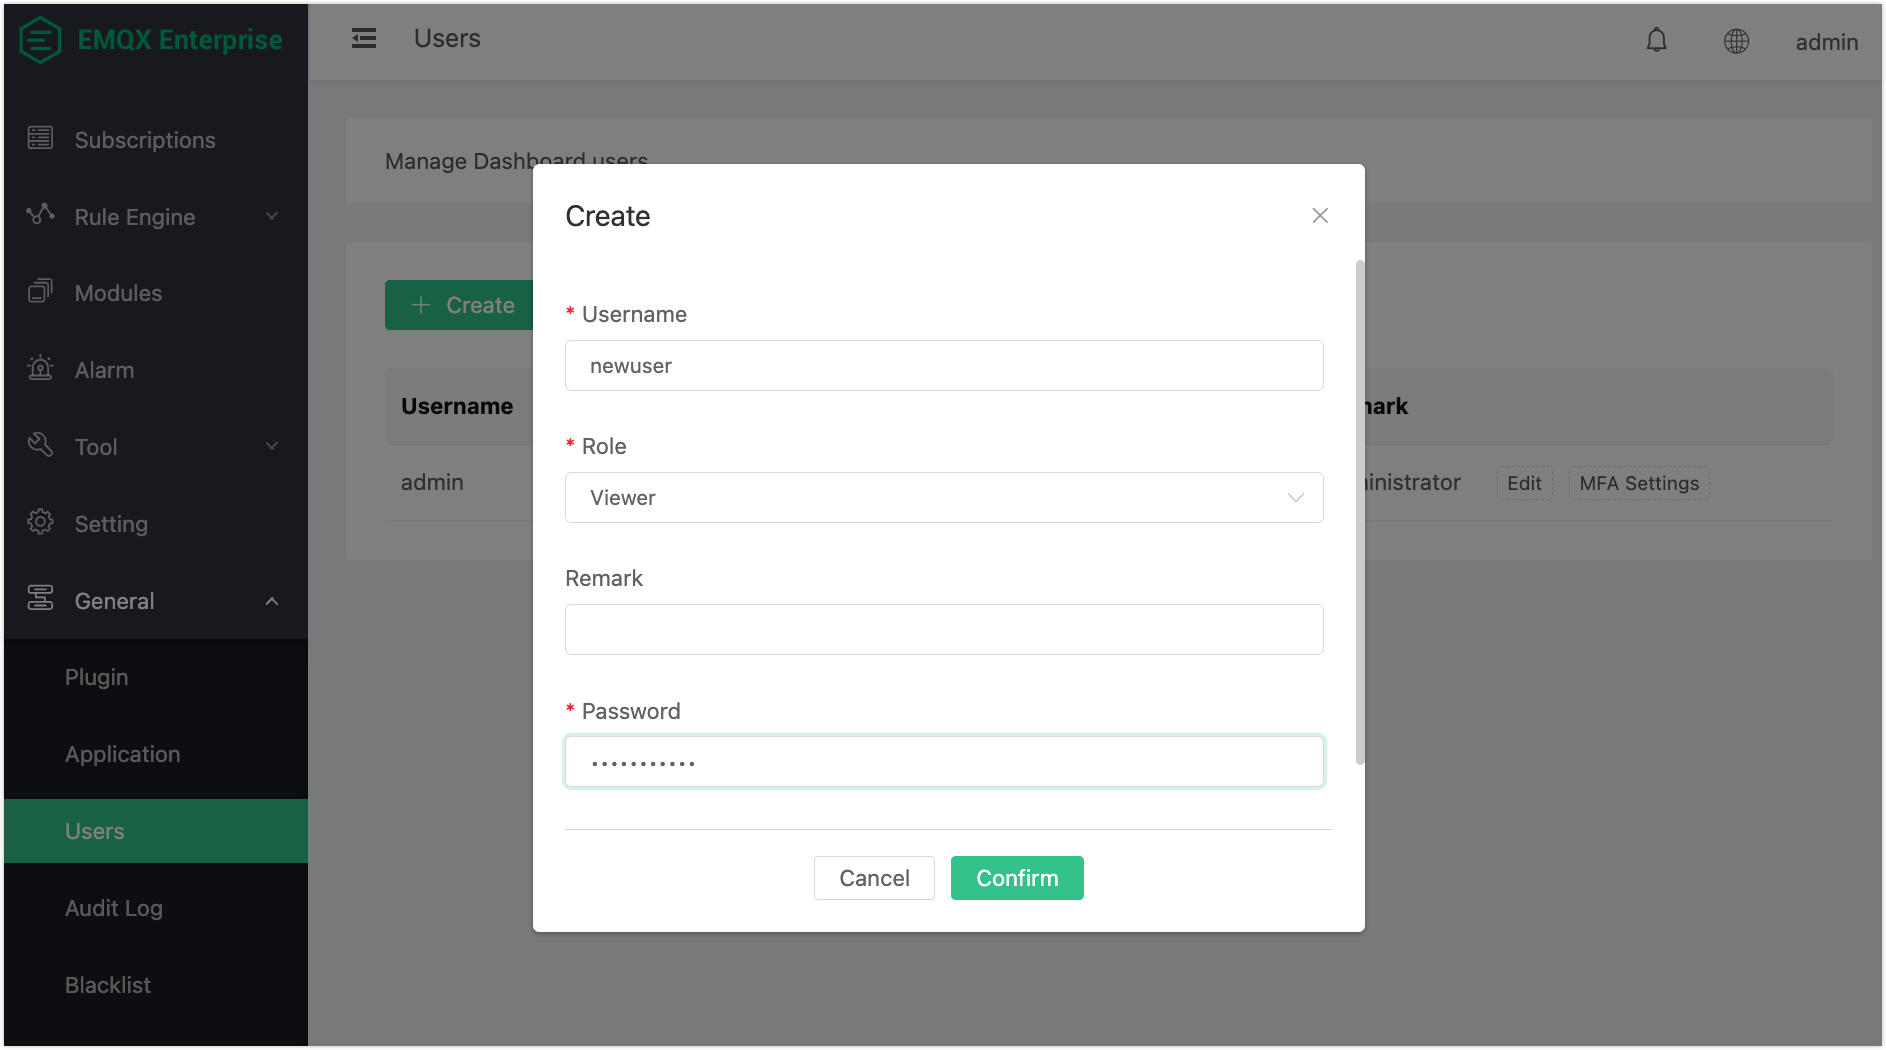
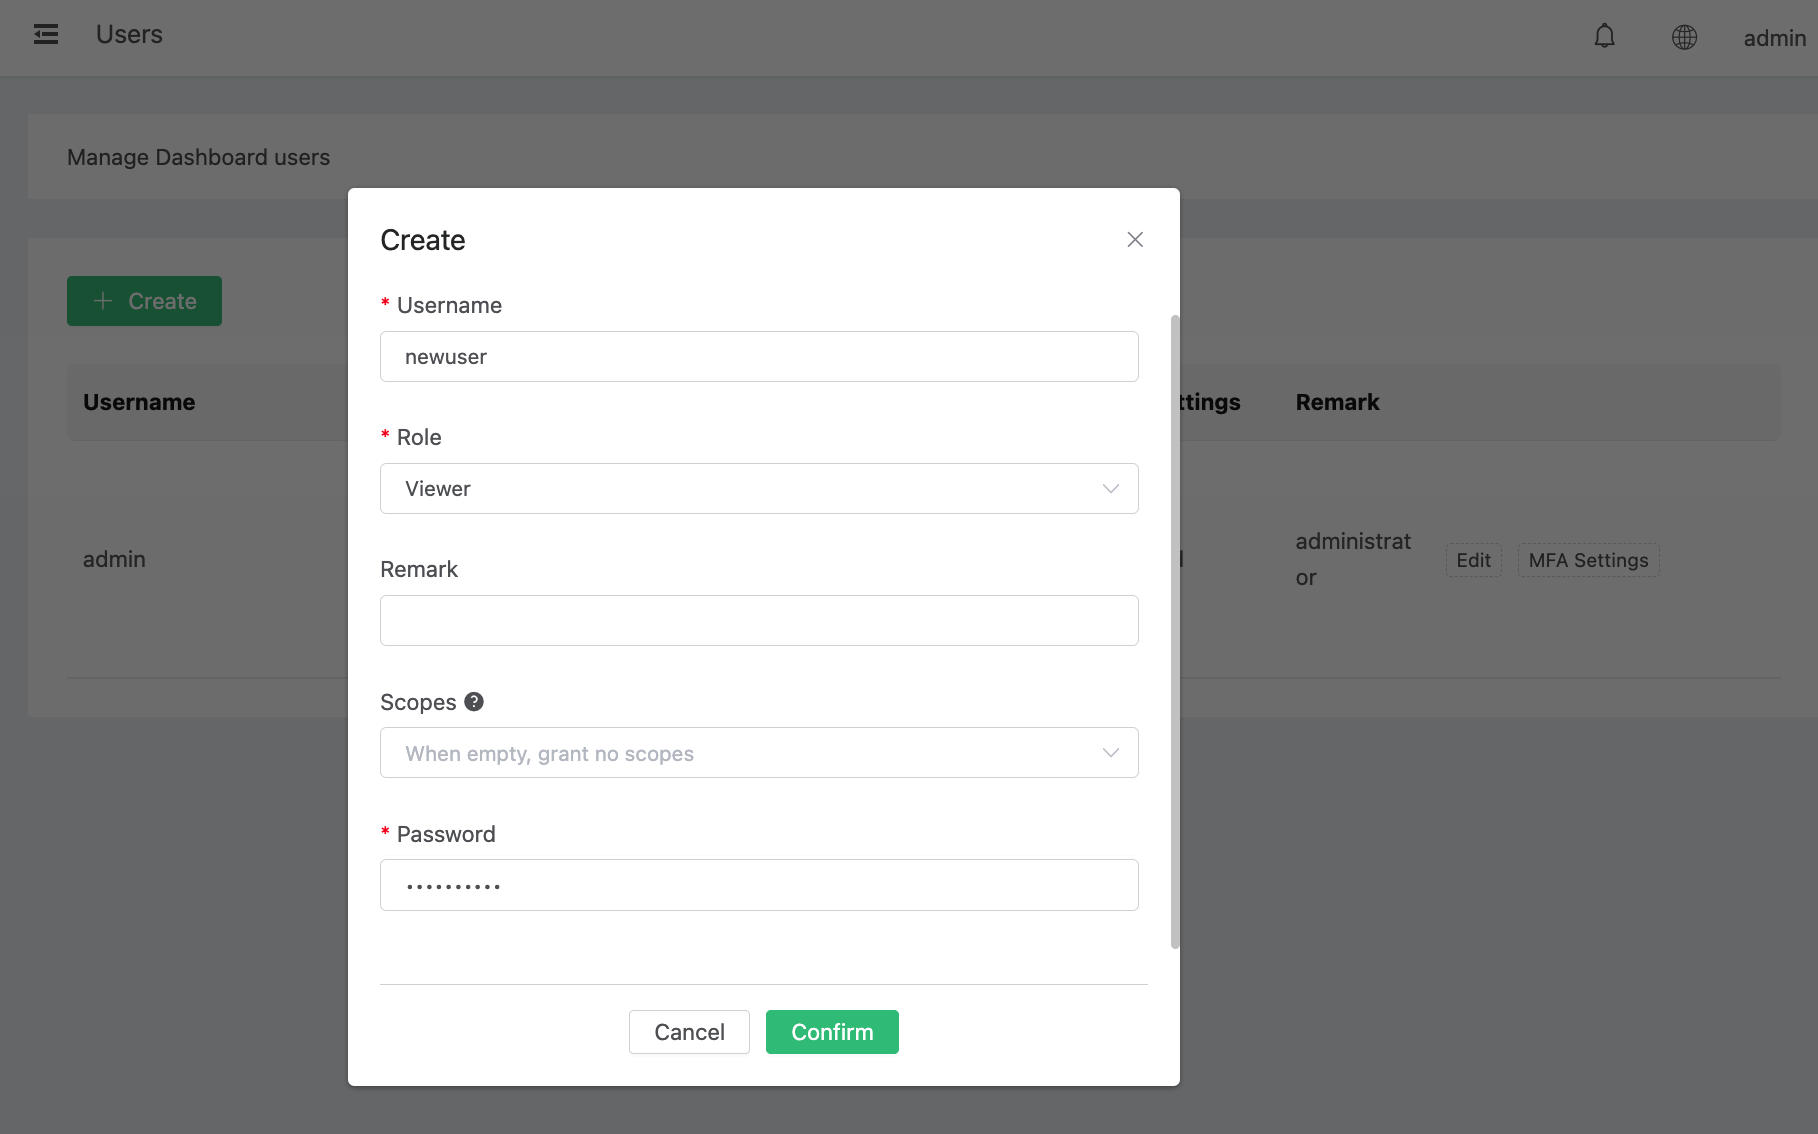
Update contents according to implementation

diff --git a/zh_CN/getting-started/dashboard-users.md b/zh_CN/getting-started/dashboard-users.md
@@ -8,32 +8,32 @@ EMQX Dashboard 内置两种角色：
 
 | 角色 | 说明 |
 |------|------|
-| `administrator` | 拥有所有 Dashboard 功能和 REST API 的完整访问权限。可管理用户、模块、规则、客户端及集群的所有配置。 |
-| `viewer` | 只读权限。可查看监控数据、客户端列表、订阅信息和统计数据，但无法修改任何配置。 |
+| 管理员 | 拥有所有 Dashboard 功能和 REST API 的完整访问权限。可管理用户、模块、规则、客户端及集群的所有配置。 |
+| 查看者 | 只读权限。可查看监控数据、客户端列表、订阅信息和统计数据，但无法修改任何配置。 |
 
 :::tip
-默认账户 `admin` 拥有 `administrator` 角色，且无法被删除。在生产环境部署前，请务必修改其密码。
+默认账户 `admin` 拥有管理员角色，且无法被删除。在生产环境部署前，请务必修改其密码。
 :::
 
 ## 用户管理
 
-本节介绍如何创建、查看、更新和删除 Dashboard 用户，以及如何修改用户密码。所有操作均需要 `administrator` 角色。
+本节介绍如何创建、查看、更新和删除 Dashboard 用户，以及如何修改用户密码。所有操作均需要管理员角色。
 
 ### 创建用户
 
-1. 在左侧导航菜单中点击**用户**。
+1. 在左侧导航菜单中点击**通用** -> **用户**。
 
-2. 点击**添加用户**。
+2. 点击**创建**。
 
-3. 填写用户名、密码、角色及可选描述。
+3. 填写用户名、角色、可选备注、可选作用域以及密码。
 
    | 字段 | 说明 |
    |------|------|
    | 用户名 | 允许使用字母、数字、下划线和连字符。 |
+   | 角色 | 管理员或查看者，默认为查看者。 |
+   | 备注 | 用户的可选备注或标签。 |
+   | 作用域 | 用于限制用户访问权限的可选权限类别。留空时，用户使用角色默认值。详见[基于权限类别的精细权限控制](#基于权限类别的精细权限控制)。 |
    | 密码 | 长度为 8-64 个字符，至少包含以下两种字符类型：字母、数字、特殊字符。仅支持 ASCII 字符。 |
-   | 角色 | `administrator` 或 `viewer`，默认为 `viewer`。 |
-   | 描述 | 用户的可选描述信息。 |
-   | 启用 MFA | 设置后，该用户在首次登录时将被要求配置 MFA。详见 [Dashboard 多因素认证](./dashboard-mfa.md)。 |
 
 4. 点击**确认**。
 
@@ -47,7 +47,7 @@ EMQX Dashboard 内置两种角色：
 
 1. 在左侧导航菜单中点击**用户**。
 2. 在用户列表中点击目标用户的**编辑**按钮。
-3. 修改角色或描述信息后点击**确认**。
+3. 修改角色、备注或作用域后点击**确认**。
 
 此操作不支持修改用户名或密码。如需修改密码，见[修改密码](#修改密码)。
 
@@ -84,56 +84,48 @@ EMQX Dashboard 内置两种角色：
 
 ### 权限类别
 
-EMQX 定义了 9 个权限类别：
+EMQX 定义了 9 个权限类别。前 6 个类别同时适用于 API Key 与 Dashboard 用户；后 3 个类别仅适用于 Dashboard 用户，不可分配给 API Key。
 
-| 类别 | 适用对象 | 说明 |
-|------|---------|------|
-| `banned` | API Key + Dashboard 用户 | 黑名单管理 |
-| `rule_engine` | API Key + Dashboard 用户 | 规则引擎与动作 |
-| `resources` | API Key + Dashboard 用户 | 连接器与桥接 |
-| `plugins` | API Key + Dashboard 用户 | 插件管理 |
-| `modules` | API Key + Dashboard 用户 | 模块配置 |
-| `others` | API Key + Dashboard 用户 | 其他杂项端点 |
-| `user_management` | 仅 Dashboard 用户 | 管理其他 Dashboard 账号 |
-| `mfa_management` | 仅 Dashboard 用户 | 管理其他用户的 MFA |
-| `app_management` | 仅 Dashboard 用户 | 管理 API Key |
-
-前 6 类为原有的业务类别，同时适用于 API Key 与 Dashboard 用户。后 3 类为 Dashboard 用户专属，不可分配给 API Key。
+| 类别 | 说明 |
+|------|------|
+| `banned` | 黑名单管理 |
+| `rule_engine` | 规则引擎与动作 |
+| `resources` | 连接器与桥接 |
+| `plugins` | 插件管理 |
+| `modules` | 模块配置 |
+| `others` | 其他杂项端点 |
+| `user_management` | 管理其他 Dashboard 账号 |
+| `mfa_management` | 管理 MFA。管理员可管理其他用户的 MFA；查看者仅可在强制 MFA 锁定时豁免自己的账号。 |
+| `app_management` | 管理 API Key |
 
 ### 角色与权限类别兼容性
 
 | 角色 | 可分配的权限类别 | 角色默认值（未设置权限类别时） |
 |------|--------------|---------------------------|
-| `administrator` | 全部 9 个类别 | 保持升级前行为：可访问所有端点 |
-| `viewer` | 4 个通用类别 + 3 个 Dashboard 类别。`user_management` 和 `app_management` **不允许**分配给查看者。 | 4 个通用类别 + `mfa_management`。只读（GET）端点不受权限类别限制，因为 GET 请求在类别层之上被短路。 |
+| 管理员 | 全部 9 个类别 | 保持升级前行为：可访问所有端点 |
+| 查看者 | 6 个通用类别和 `mfa_management`。`user_management` 和 `app_management` **不允许**分配给查看者。 | 6 个通用类别：`banned`、`rule_engine`、`resources`、`plugins`、`modules`、`others`。 |
 
-用户修改自己的密码、管理自己的 MFA 以及登出操作始终允许，与权限类别设置无关。
+如果为管理员显式设置了 scopes，其读写操作都会被限制在所列 scope 内。查看者无论如何设置 scopes 都保持只读。对于查看者，GET 请求同样会检查 scope，对非自身资源的非 GET 请求会被拒绝。查看者不能下载备份归档（`/api/v4/data/file/*`）；查看导出列表仍然可用。用户修改自己的密码、管理自己的 MFA 以及登出等自助操作始终允许，与 scopes 设置无关。
 
 ### 为用户设置权限类别
 
-在创建或更新用户时，管理员可以设置 `scopes` 字段以限制该用户的权限范围：
+在创建或更新 Dashboard 用户时，管理员可以选择一个或多个**作用域（Scopes）**来限制该用户的权限范围。在 API 和备份数据中，这些值存储为用户 `tags` 字段中的 `scopes` 数组：
 
 - **不设置**（使用角色默认值）：用户保持升级前基于角色的行为。
-- **空数组 `[]`**：用户被拒绝访问所有需要 scope 的端点（自服务路径仍可用）。
-- **非空数组**：用户只能访问属于所列类别的端点。
+- **空数组 `[]`**：用户被拒绝访问所有需要 scope 的端点，包括 GET 请求（自助操作仍可用）。
+- **非空数组**：用户只能访问属于所列类别的端点。对于查看者，角色本身的只读限制仍然适用。
+
+如果所选 scope 与用户角色不兼容，操作将返回错误。例如，查看者无法被分配 `user_management` 或 `app_management`。
 
 :::tip 示例
-创建一个只能查看监控数据和自助管理 MFA 的查看者：
-
-```
-scopes: ["modules", "mfa_management"]
-```
-:::
-
-:::warning 重要提示
-查看者无法被分配 `user_management` 或 `app_management`。尝试分配将返回错误。
+例如，选择**模块**，表示仅允许该用户访问模块相关 API 路径。在 API 和备份数据中，该选择存储为 `scopes: ["modules"]`。修改自己的密码、管理自己的 MFA、登出等自助操作仍然可用。
 :::
 
 ### 默认管理员保护
 
 由 `dashboard.default_user.login` 配置的默认管理员账号具有额外的保护措施：
 
-- 不可被降级为 `viewer` 角色。
+- 不可被降级为查看者角色。
 - 不可设置显式的 `scopes` 字段（始终拥有全部类别）。
 - 不可被删除。
 
@@ -141,12 +133,12 @@ scopes: ["modules", "mfa_management"]
 
 ## SSO 用户
 
-当用户首次通过 SAML 单点登录（SSO）进行认证时，EMQX 会自动为其创建一个 Dashboard 账户，并分配 `viewer` 角色。
+当用户首次通过 SAML 单点登录（SSO）进行认证时，EMQX 会自动为其创建一个 Dashboard 账户，并分配查看者角色。
 
 - SSO 用户的内部密码为随机生成，无法直接使用用户名和密码方式登录。
 - 管理员可通过 Dashboard 用户页面修改 SSO 用户的角色。
 - SAML SSO 的配置详情请参考 [SAML 2.0 单点登录](../modules/saml_sso.md)文档。
 
 :::tip
-如需为 SSO 用户授予管理员权限，可在**用户**页面编辑该用户，将其角色更改为 `administrator`。
+如需为 SSO 用户授予管理员权限，可在**用户**页面编辑该用户，将其角色更改为管理员。
 :::

diff --git a/en_US/getting-started/dashboard-users.md b/en_US/getting-started/dashboard-users.md
@@ -21,19 +21,19 @@ This section covers creating, viewing, updating, and deleting Dashboard users, a
 
 ### Create a User
 
-1. Click **Users** from the left navigation menu.
+1. Click **General** -> **Users** from the left navigation menu.
 
 2. Click **Create**.
 
-3. Fill in the username, password, role, and optional description.
+3. Fill in the username, role, optional remark, optional scopes, and password.
 
    | Field | Description |
    |-------|-------------|
    | Username | Alphanumeric characters, underscores, and hyphens are allowed. |
-   | Password | Must be 8-64 characters and contain at least 2 of the following: letters, numbers, special characters. ASCII only. |
    | Role | `administrator` or `viewer`. Defaults to `viewer`. |
-   | Description | Optional description or label for the user. |
-   | Enable MFA | When enabled, the user will be prompted to set up MFA on their first login. See [Dashboard Multi-Factor Authentication](./dashboard-mfa.md). |
+   | Remark | Optional note or label for the user. |
+   | Scopes | Optional permission categories used to restrict the user's access. When empty, the user keeps the role default. See [Category-Based Permission Control](#category-based-permission-control). |
+   | Password | Must be 8-64 characters and contain at least 2 of the following: letters, numbers, special characters. ASCII only. |
 
 4. Click **Confirm**.
 
@@ -47,7 +47,7 @@ Click **Users** from the left navigation menu to view all Dashboard users and th
 
 1. Click **Users** from the left navigation menu.
 2. Click the **Edit** button for the target user.
-3. Update the role or description and click **Confirm**.
+3. Update the role, remark, or scopes, and click **Confirm**.
 
 You cannot update the username or password through this operation. To change a password, see [Change Password](#change-password).
 
@@ -84,48 +84,41 @@ In addition to the role-based access control described above, EMQX Enterprise su
 
 ### Permission Categories
 
-EMQX defines a vocabulary of 9 permission categories:
+EMQX defines 9 permission categories. The first 6 categories apply to both API keys and Dashboard users. The last 3 categories apply only to Dashboard users and cannot be assigned to API keys.
 
-| Category | Applies to | Description |
-|----------|-----------|-------------|
-| `banned` | API keys + Dashboard users | Blacklist management |
-| `rule_engine` | API keys + Dashboard users | Rule engine and actions |
-| `resources` | API keys + Dashboard users | Connectors and bridges |
-| `plugins` | API keys + Dashboard users | Plugin management |
-| `modules` | API keys + Dashboard users | Module configuration |
-| `others` | API keys + Dashboard users | Miscellaneous endpoints |
-| `user_management` | Dashboard users only | Manage other Dashboard accounts |
-| `mfa_management` | Dashboard users only | Manage other users' MFA |
-| `app_management` | Dashboard users only | Manage API keys |
-
-Categories 1–6 (pre-existing business categories) apply to both API keys and Dashboard users. Categories 7–9 are exclusive to Dashboard users and cannot be assigned to API keys.
+| Category | Description |
+|----------|-------------|
+| `banned` | Blacklist management |
+| `rule_engine` | Rule engine and actions |
+| `resources` | Connectors and bridges |
+| `plugins` | Plugin management |
+| `modules` | Module configuration |
+| `others` | Miscellaneous endpoints |
+| `user_management` | Manage other Dashboard accounts |
+| `mfa_management` | Manage MFA. Administrators can manage other users' MFA; viewers can only exempt themselves from a forced-MFA lock. |
+| `app_management` | Manage API keys |
 
 ### Role-Permission Compatibility
 
 | Role | Allowed Permission Categories | Role Default (no explicit categories) |
 |------|---------------|-----------------------------------|
 | `administrator` | All 9 categories | Pre-upgrade behaviour: access to all endpoints |
-| `viewer` | 4 common + 3 Dashboard-only categories. `user_management` and `app_management` are **not** allowed for viewers. | 4 common + `mfa_management`. GET-only endpoints remain accessible because GET bypasses the scope layer. |
+| `viewer` | 6 common categories and `mfa_management`. `user_management` and `app_management` are **not** allowed for viewers. | 6 common categories: `banned`, `rule_engine`, `resources`, `plugins`, `modules`, and `others`. |
 
-The self-service paths, for example, a user changing their own password, managing their own MFA, and logging out, are always permitted regardless of categories.
+If explicit scopes are set for an administrator, both read and write operations are restricted to those scopes. Viewers remain read-only regardless of scopes. For viewers, GET requests are also scope-checked, and non-self non-GET requests are denied. Viewers cannot download backup archives from `/api/v4/data/file/*`; listing exports remains available. Self-service paths, for example, a user changing their own password, managing their own MFA, and logging out, are always permitted regardless of scopes.
 
 ### Set Permissions for a User
 
-When creating or updating a user, administrators can set an optional `scopes` field to restrict the user's permissions:
+When creating or updating a Dashboard user, administrators can select one or more **Scopes** to restrict the user's permissions. In API and backup data, these values are stored as the `scopes` array in the user's `tags` field:
 
 - **Omitted** (no change / use role default): The user receives the pre-upgrade role-based behaviour.
-- **Empty array `[]`**: The user is denied access to all scope-gated endpoints (self-service paths remain available).
-- **Non-empty array**: The user can only access endpoints that belong to the listed categories.
+- **Empty array `[]`**: The user is denied access to all scope-gated endpoints, including GET requests (self-service paths remain available).
+- **Non-empty array**: The user can only access endpoints that belong to the listed categories. For viewers, the role's read-only restriction still applies.
+
+If the selected scopes are not compatible with the user's role, the operation returns an error. For example, viewers cannot be assigned `user_management` or `app_management`.
 
 :::tip Example
-To create a viewer who can only see monitoring data and manage their own MFA:
-```
-scopes: ["modules", "mfa_management"]
-```
-:::
-
-:::warning Important Notice
-Viewers cannot be assigned `user_management` or `app_management`. Attempting to do so will return an error.
+For example, select **Modules** to allow the user to access only module-related API paths. In API and backup data, this selection is stored as `scopes: ["modules"]`. Self-service operations, such as changing the user's own password, managing their own MFA, and logging out, remain available.
 :::
 
 ### Default Administrator Protection
